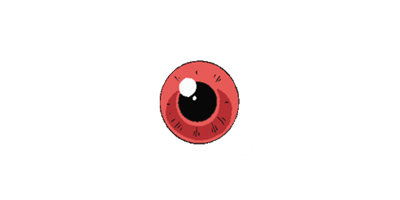
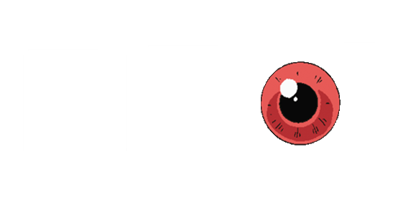
implement torque

Changed region(s): [[0.63, 0.3, 0.87, 0.75], [0.39, 0.3, 0.6, 0.75]]

diff --git a/src/Eyes.jsx b/src/Eyes.jsx
@@ -2,10 +2,10 @@ import * as THREE from 'three'
 import { useTexture } from '@react-three/drei'
 import { useFrame, useThree } from '@react-three/fiber'
 import { Outlines } from './r3f-gist/effect/Outlines'
-import { useMemo, useRef } from 'react'
+import { useMemo, useRef, useState } from 'react'
 import ThreeCustomShaderMaterial from 'three-custom-shader-material'
 import { patchShaders } from 'gl-noise'
-import { InstancedRigidBodies, vec3 } from '@react-three/rapier'
+import { InstancedRigidBodies, quat, vec3 } from '@react-three/rapier'
 
 const count = 200
 const rfs = THREE.MathUtils.randFloatSpread
@@ -14,15 +14,21 @@ const shader = {
     vertex: /* glsl */ `
       attribute float speedBuffer;
       varying float vSpeedBuffer;
+      varying vec2 csm_vUv;
       void main() {
         vSpeedBuffer = speedBuffer;
+        csm_vUv = uv;
         csm_PositionRaw = projectionMatrix * modelViewMatrix * instanceMatrix * vec4(position, 1.);
       }
       `,
     fragment: /* glsl */ `
+      uniform sampler2D uBlueTex;
+      uniform sampler2D uRedTex;
+      varying vec2 csm_vUv;
+
       varying float vSpeedBuffer;
       void main() {
-        csm_DiffuseColor.r+= vSpeedBuffer;
+        csm_DiffuseColor = mix(texture2D(uBlueTex, csm_vUv),texture2D(uRedTex, csm_vUv), vSpeedBuffer) ;
       }
       `,
 }
@@ -32,8 +38,12 @@ const applyForce = (api, scaler) => {
 }
 
 export default function Eyes({ mat = new THREE.Matrix4(), vec = new THREE.Vector3(), ...props }) {
+    const [hitSound] = useState(() => new Audio('./721342__jerimee__table-tennis-toggle.wav'))
     const camera = useThree((state) => state.camera)
-    const texture = useTexture('eye.png')
+
+    const blueTex = useTexture('eye_blue.png')
+    const redTex = useTexture('eye_red.png')
+
     const rigidBodies = useRef();
     const mesh = useRef()
     const speedBuffer = new THREE.InstancedBufferAttribute(new Float32Array(count), 1);
@@ -59,10 +69,24 @@ export default function Eyes({ mat = new THREE.Matrix4(), vec = new THREE.Vector
             const api = rigidBodies.current[i]
 
             if (api == null) continue
+
+            // force
             applyForce(api, -1)
+
             const vel = api.linvel()
             const speed = Math.sqrt(vel.x ** 2 + vel.y ** 2 + vel.z ** 2);
-            speedBuffer.setX(i, Math.pow(speed / 20, 2))
+            const ratio = THREE.MathUtils.clamp(speed / 10, 0, 1)
+            speedBuffer.setX(i, Math.pow(ratio, 2))
+
+            // torque
+            const cameraPosition = camera.position.clone();
+            const bodyPosition = vec3(api.translation());
+            var currentQuaternion = quat(api.rotation()); // Current orientation of the body
+            const direction = cameraPosition.sub(bodyPosition).normalize(); // Direction from body to camera
+            const targetQuaternion = new THREE.Quaternion().setFromUnitVectors(new THREE.Vector3(0, 0, -1), direction);
+
+            currentQuaternion.slerp(targetQuaternion, delta * (1 - ratio) * 0.5)
+            api.setRotation(currentQuaternion)
         }
 
         speedBuffer.needsUpdate = true
@@ -82,8 +106,15 @@ export default function Eyes({ mat = new THREE.Matrix4(), vec = new THREE.Vector
                     applyForce(rigidBodies.current[i.instanceId], 20)
                 })
             }}
+            onContactForce={(payload) => {
+                if (payload.totalForceMagnitude > 300) {
+                    hitSound.currentTime = 0;
+                    hitSound.volume = rfs(0.25) + 0.75;
+                    hitSound.play();
+                }
+            }}
             linearDamping={0.65}
-            angularDamping={0.5}
+            angularDamping={1}
             mass={3}
         >
 
@@ -91,15 +122,19 @@ export default function Eyes({ mat = new THREE.Matrix4(), vec = new THREE.Vector
                 ref={mesh}
                 castShadow receiveShadow args={[null, null, count]}>
                 <sphereGeometry args={[1, 32, 32]} />
+                {/* <boxGeometry args={[1, 1, 5]} /> */}
                 <ThreeCustomShaderMaterial
                     baseMaterial={THREE.MeshStandardMaterial}
-                    uniforms={{ uTex: texture }}
                     roughness={0}
                     envMapIntensity={1}
                     color='white'
-                    map={texture}
+                    map={blueTex}
                     fragmentShader={patchShaders(shader.fragment)}
                     vertexShader={patchShaders(shader.vertex)}
+                    uniforms={{
+                        uBlueTex: { value: blueTex },
+                        uRedTex: { value: redTex }
+                    }}
                 >
                 </ThreeCustomShaderMaterial>
                 <Outlines thickness={0.01} />

diff --git a/src/index.html b/src/index.html
@@ -3,7 +3,7 @@
 <head>
     <meta charset="UTF-8">
     <meta name="viewport" content="width=device-width, initial-scale=1.0">
-    <title>👁❤👻 </title>
+    <title>👁💙🧲 </title>
 </head>
 <body>
     <div id="root"></div>
